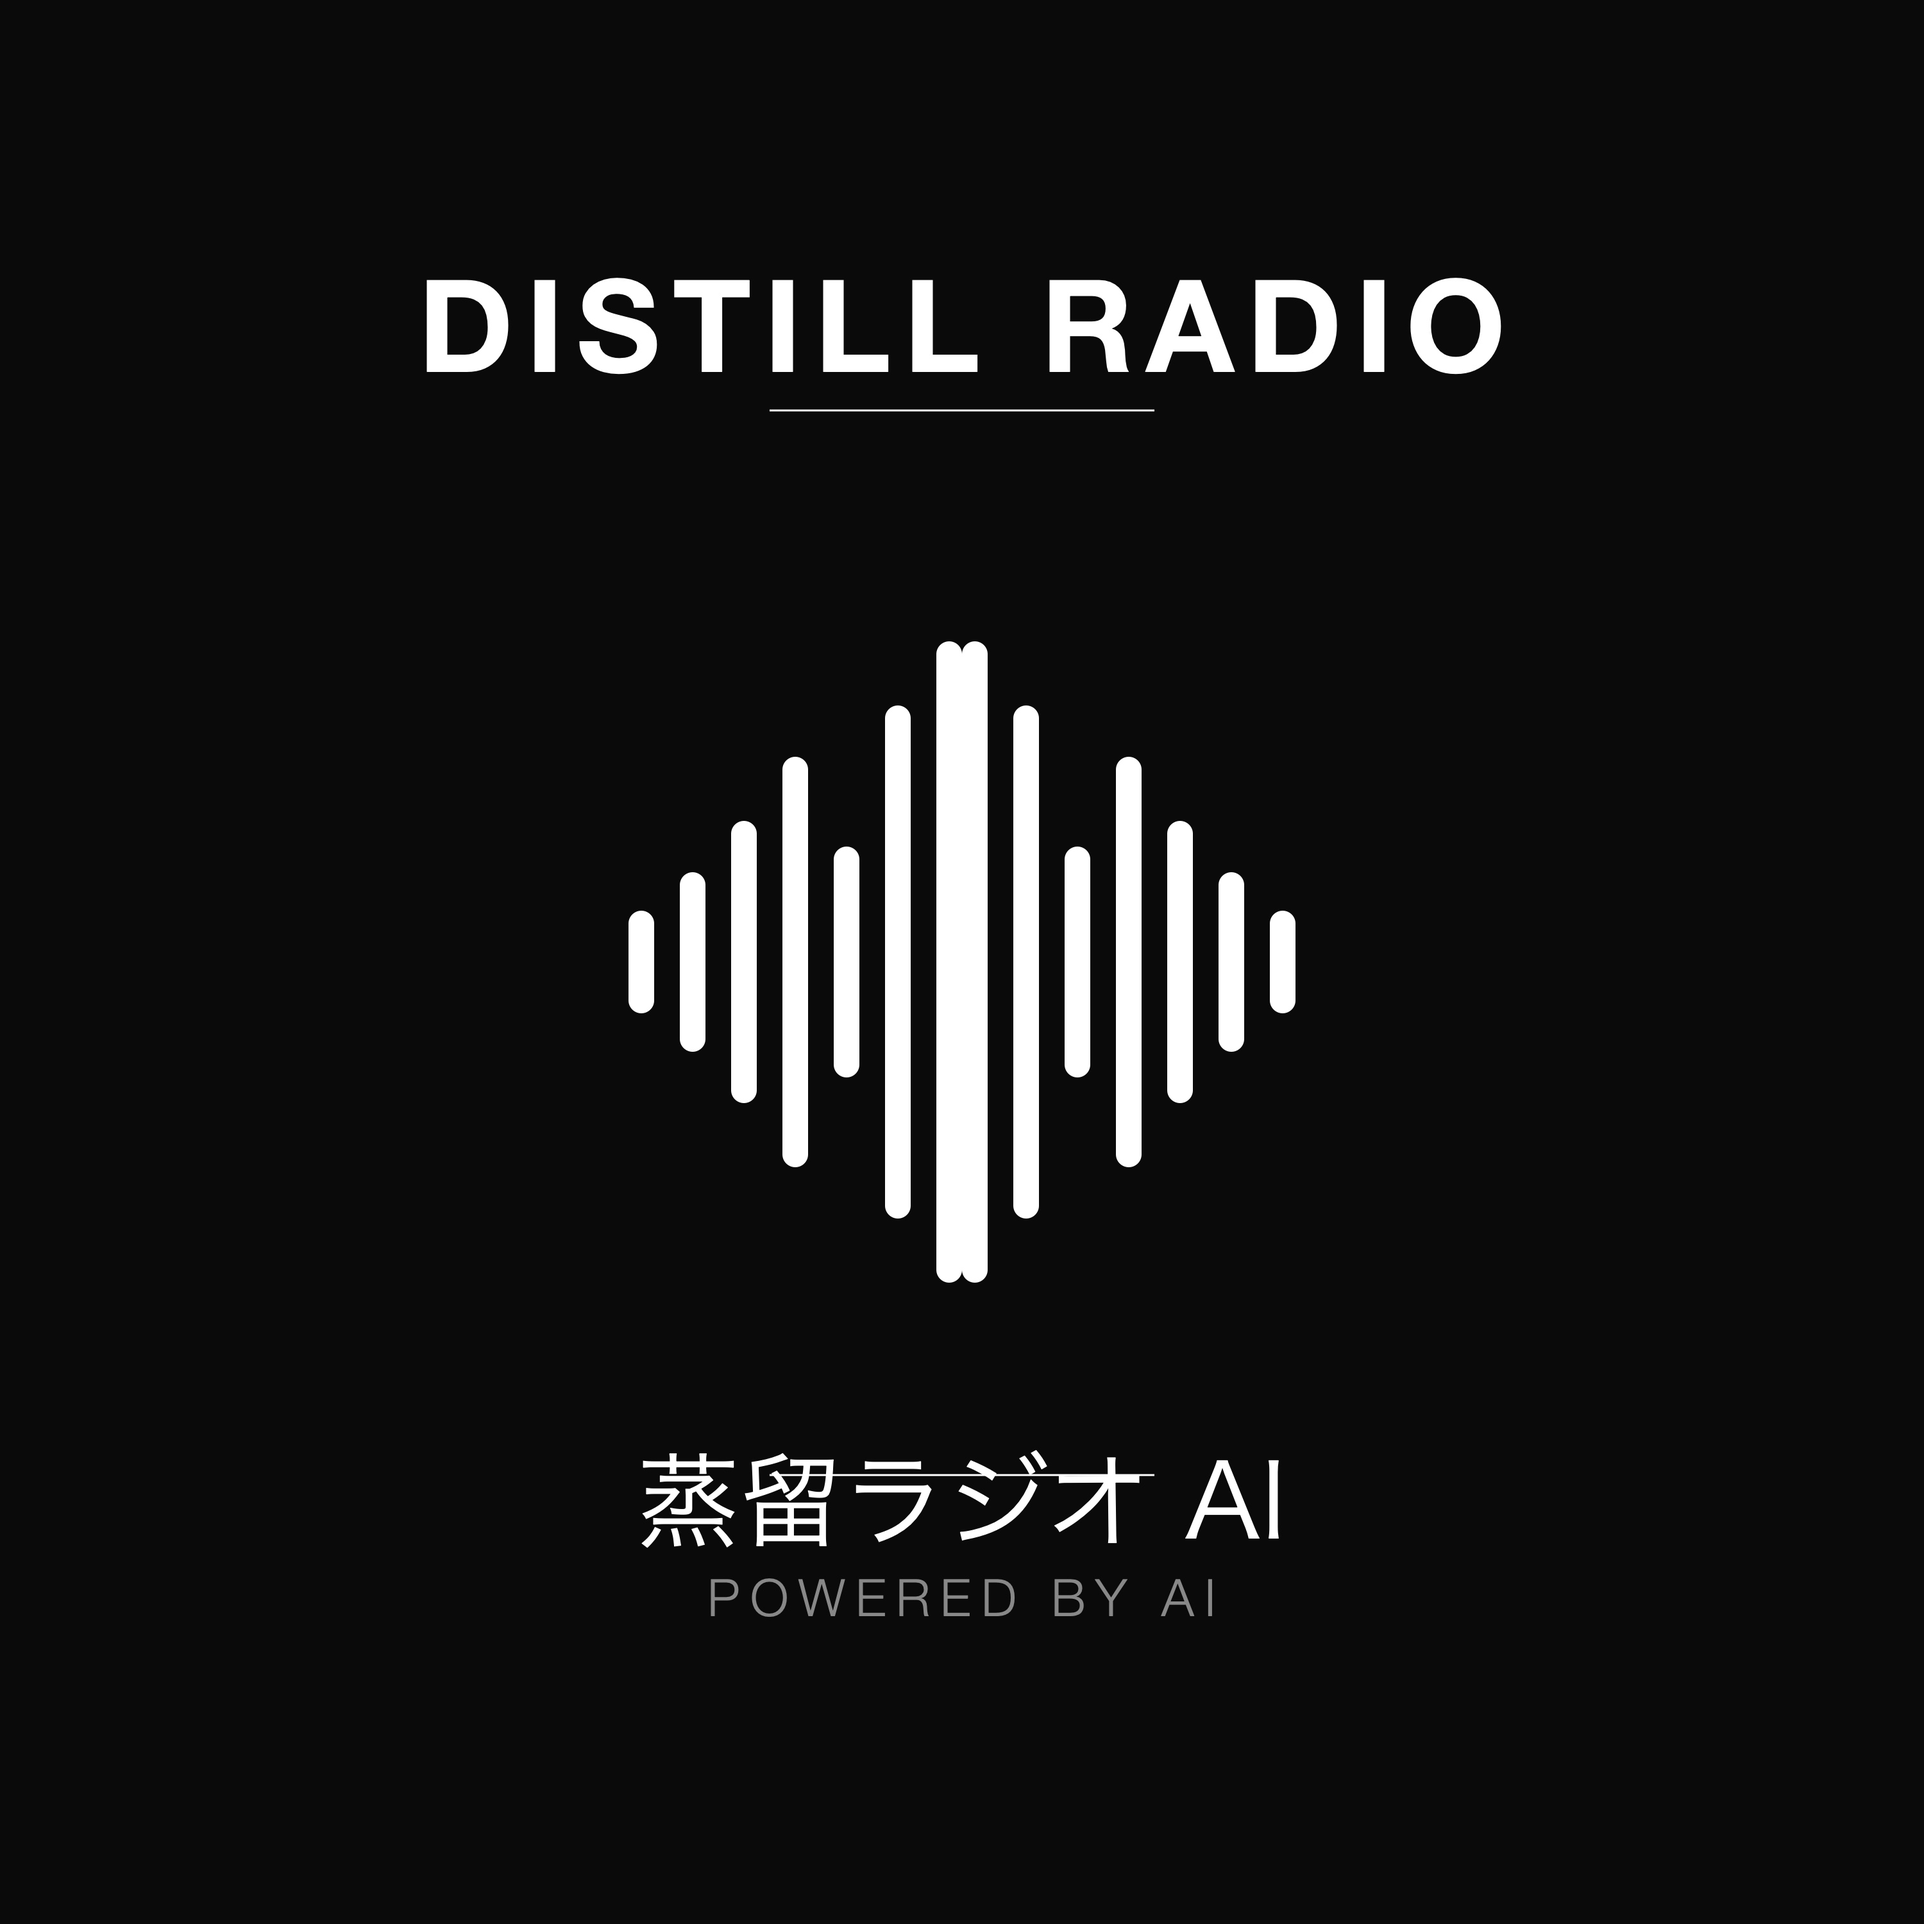
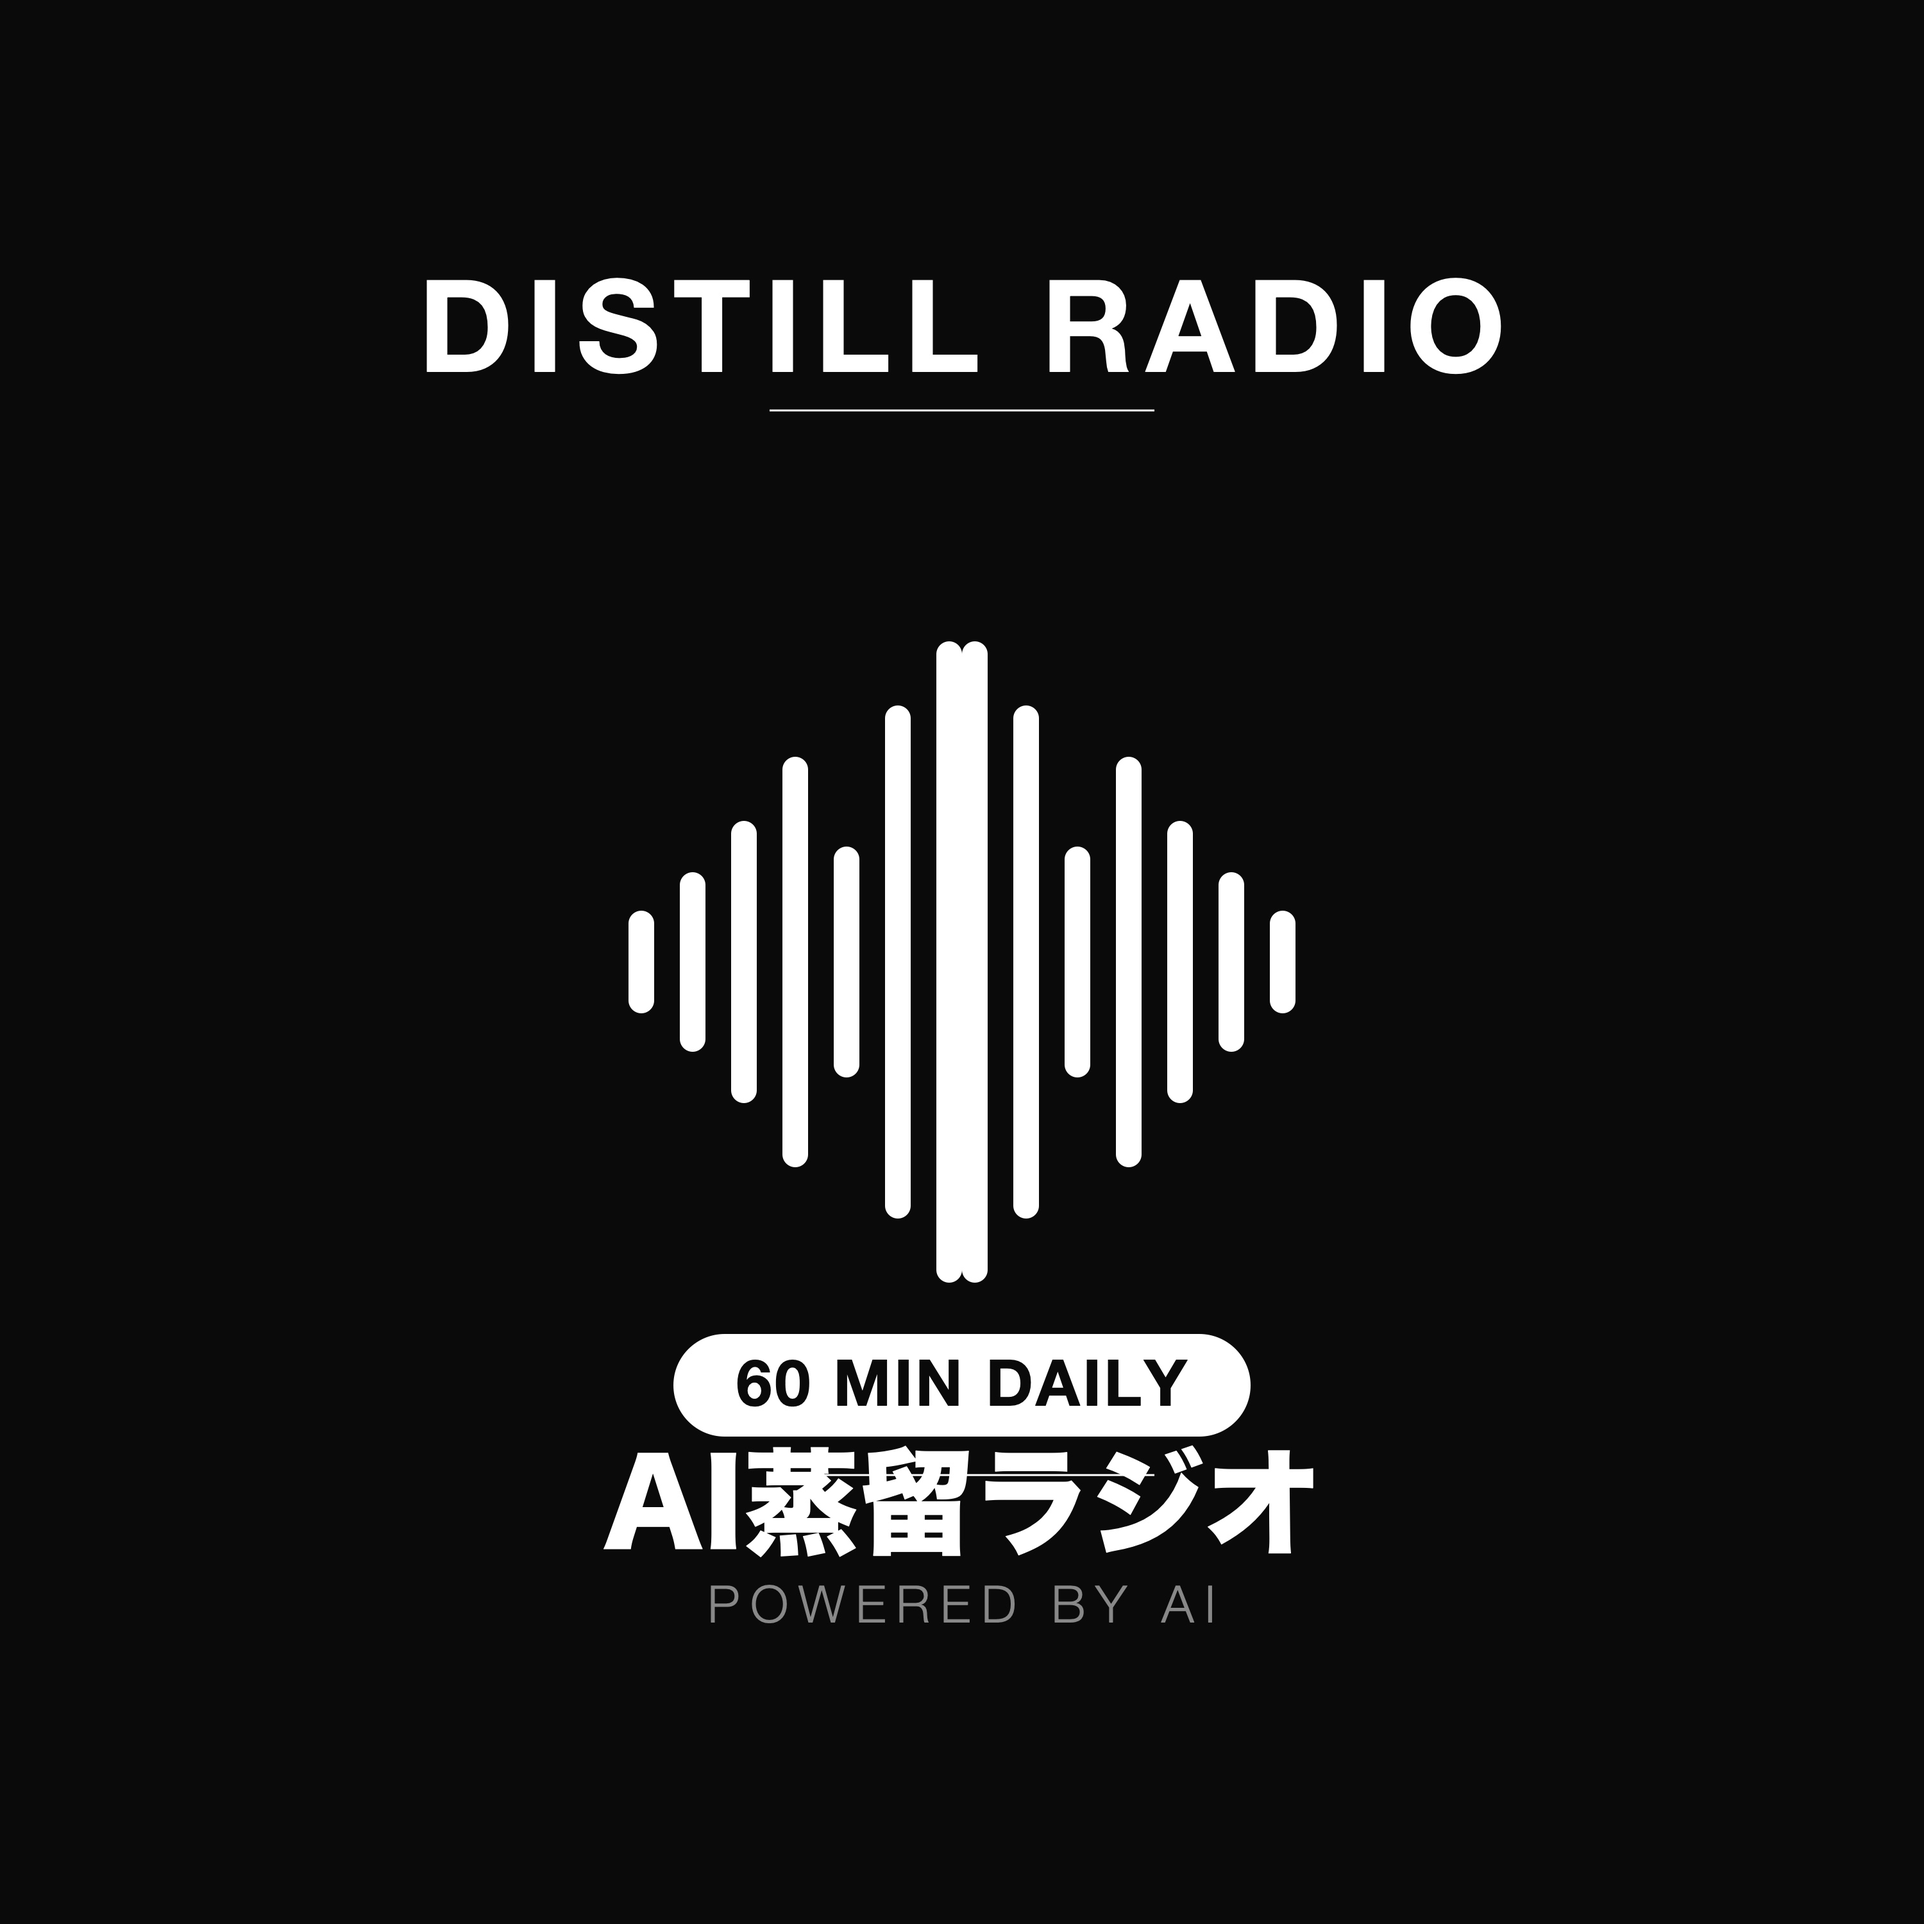
Rename to AI蒸留ラジオ + artwork update
- Genre-prefix naming: AI蒸留ラジオ, 経済蒸留ラジオ, etc.
- Bold Japanese title + 60 MIN DAILY badge on artwork
- All references updated across scripts and feed

Changed region(s): [[0.31, 0.682, 0.682, 0.837]]

diff --git a/scripts/generate.py b/scripts/generate.py
@@ -1,5 +1,5 @@
 #!/usr/bin/env python3
-"""蒸留ラジオ AI - Podcast Generator
+"""AI蒸留ラジオ - Podcast Generator
 
 Fetches AI news from RSS feeds, generates a Japanese script,
 converts to speech using Edge TTS, and updates the podcast RSS feed.
@@ -111,7 +111,7 @@ def generate_script(articles: list[dict]) -> list[tuple[str, str]]:
     script = []
 
     # Opening
-    script.append(("female", f"こんばんは。{today}の蒸留ラジオAIへようこそ。今日も注目のAIニュースをお届けします。"))
+    script.append(("female", f"こんばんは。{today}のAI蒸留ラジオへようこそ。今日も注目のAIニュースをお届けします。"))
     script.append(("male", "よろしくお願いします。今日もいくつか面白いニュースが入ってきていますね。早速見ていきましょう。"))
 
     for i, article in enumerate(articles, 1):
@@ -145,7 +145,7 @@ def generate_script(articles: list[dict]) -> list[tuple[str, str]]:
         script.append(("female", "なるほど、引き続き注目していきたいですね。"))
 
     # Closing
-    script.append(("female", "以上が本日の蒸留ラジオAIでした。お聴きいただきありがとうございました。"))
+    script.append(("female", "以上が本日のAI蒸留ラジオでした。お聴きいただきありがとうございました。"))
     script.append(("male", "また明日のエピソードでお会いしましょう。おやすみなさい。"))
 
     # Check total length and pad if needed
@@ -248,7 +248,7 @@ def update_feed(episode_date: str, mp3_filename: str, mp3_size: int, duration_se
     item = ET.SubElement(channel, "item")
 
     title = ET.SubElement(item, "title")
-    title.text = f"蒸留ラジオ AI - {episode_date}"
+    title.text = f"AI蒸留ラジオ - {episode_date}"
 
     description = ET.SubElement(item, "description")
     description.text = episode_description or f"{episode_date}のAI関連最新ニュースをお届けします。"

diff --git a/scripts/create_artwork.py b/scripts/create_artwork.py
@@ -36,10 +36,14 @@ SVG_CONTENT = '''<svg xmlns="http://www.w3.org/2000/svg" viewBox="0 0 3000 3000"
   <!-- Thin line under title -->
   <line x1="1200" y1="640" x2="1800" y2="640" stroke="#fff" stroke-width="3"/>
 
+  <!-- 60 min badge -->
+  <rect x="1050" y="2080" width="900" height="160" rx="80" fill="#fff"/>
+  <text x="1500" y="2192" text-anchor="middle" font-family="Helvetica Neue, Arial, sans-serif" font-weight="800" font-size="100" letter-spacing="4" fill="#0a0a0a">60 MIN DAILY</text>
+
   <!-- Bottom text -->
   <line x1="1200" y1="2300" x2="1800" y2="2300" stroke="#fff" stroke-width="3"/>
-  <text x="1500" y="2400" text-anchor="middle" font-family="'Hiragino Kaku Gothic ProN', 'Hiragino Sans', sans-serif" font-weight="500" font-size="160" fill="#fff">蒸留ラジオ AI</text>
-  <text x="1500" y="2520" text-anchor="middle" font-family="Helvetica Neue, Arial, sans-serif" font-weight="300" font-size="80" letter-spacing="16" fill="#888">POWERED BY AI</text>
+  <text x="1500" y="2410" text-anchor="middle" font-family="'Hiragino Sans', 'Hiragino Kaku Gothic ProN', sans-serif" font-weight="800" font-size="180" fill="#fff">AI蒸留ラジオ</text>
+  <text x="1500" y="2530" text-anchor="middle" font-family="Helvetica Neue, Arial, sans-serif" font-weight="300" font-size="80" letter-spacing="16" fill="#888">POWERED BY AI</text>
 </svg>'''
 
 

diff --git a/CLAUDE.md b/CLAUDE.md
@@ -3,7 +3,7 @@
 - claude -p の呼び出しを変更したら: 手動で1回走らせて osascript 通知が来ることを確認
 - LaunchAgent を変更したら: `launchctl bootout gui/$(id -u)/com.local.cast-daily && launchctl bootstrap gui/$(id -u) ~/Library/LaunchAgents/com.local.cast-daily.plist && launchctl list com.local.cast-daily` で exit 0 を確認
 
-## CAST — 蒸留ラジオ AI（AIニュースポッドキャスト）
+## CAST — AI蒸留ラジオ（AIニュースポッドキャスト）
 - GitHub Pages配信 (refined1975-ship-it/ai-podcast)
 - 毎日 7:00 JST LaunchAgent (`~/.local/bin/cast-daily.sh`) → `claude -p` でスクリプト生成+TTS+push
 - 7日で自動削除、8:00 JST にローカル監視 (`daily-check.sh`)
